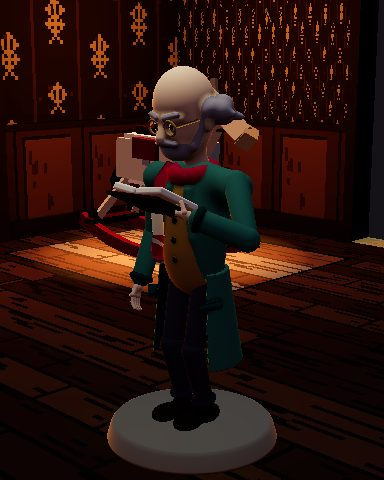
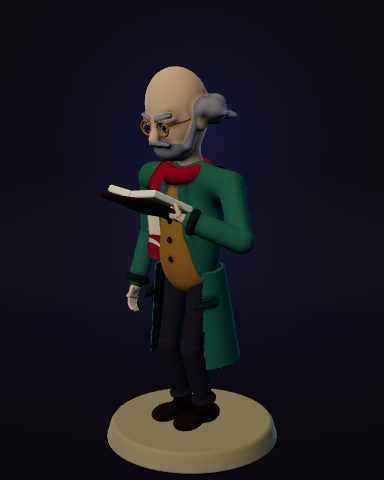
art(betrayal): setup portraits on a dark studio sweep
The portraits leave the Abandoned Room for the figure viewer: each figure on
its base, on a seamless sweep curving up into a dark backdrop, under a soft
warm key and fill with the cold moon behind lighting the backdrop round the
figure and rimming its edges. The viewer gains the portrait light and a
portrait camera that frames every figure at the same scale, from the same
12-degree tilt and distance the bench shot used.

diff --git a/src/projects/betrayal/art/figure-viewer.ts b/src/projects/betrayal/art/figure-viewer.ts
@@ -40,6 +40,8 @@ export interface ViewerFigure {
   id: string;
   name: string;
   kind: "explorer" | "pawn" | "monster";
+  /** The character it shows as a seat shows them, or null for a figure that is no character's. */
+  character: string | null;
   build: (stunned: boolean) => ExplorerBuilder;
   /** The seat colour of the ring round its base: the character card's. */
   ring: PaletteKey | null;
@@ -55,15 +57,15 @@ function viewerFigures(): ViewerFigure[] {
     const own = hasFigure(character.id) ? BENCH_EXPLORERS.find((figure) => figure.build === build) : undefined;
     const speed = { track: character.tracks.speed, start: character.tracks.speed[character.start.speed] };
     return own
-      ? { id: own.id, name: character.name, kind: "explorer" as const, build: () => build, ring, speed }
-      : { id: character.id, name: `${character.name} (pawn)`, kind: "pawn" as const, build: () => build, ring, speed };
+      ? { id: own.id, name: character.name, kind: "explorer" as const, character: character.id, build: () => build, ring, speed }
+      : { id: character.id, name: `${character.name} (pawn)`, kind: "pawn" as const, character: character.id, build: () => build, ring, speed };
   });
   return [
     ...characters.filter(({ kind }) => kind === "explorer"),
     ...characters.filter(({ kind }) => kind === "pawn"),
-    { id: "pawn", name: "Scale pawn", kind: "pawn", build: () => () => pawn(), ring: null, speed: null },
-    { id: "banshee", name: "The Banshee", kind: "monster", build: (stunned) => (seed, gait) => banshee(seed, gait, { stunned }), ring: null, speed: null },
-    { id: "spider", name: "The Spider", kind: "monster", build: (stunned) => (seed, gait) => spider(seed, gait, { stunned }), ring: null, speed: null },
+    { id: "pawn", name: "Scale pawn", kind: "pawn", character: null, build: () => () => pawn(), ring: null, speed: null },
+    { id: "banshee", name: "The Banshee", kind: "monster", character: null, build: (stunned) => (seed, gait) => banshee(seed, gait, { stunned }), ring: null, speed: null },
+    { id: "spider", name: "The Spider", kind: "monster", character: null, build: (stunned) => (seed, gait) => spider(seed, gait, { stunned }), ring: null, speed: null },
   ];
 }
 
@@ -72,7 +74,7 @@ export const VIEWER_FIGURES: readonly ViewerFigure[] = viewerFigures();
 /** What a line-up does: every explorer in the same state. */
 export const LINE_UP_STATES = ["idle", "walk", "run"] as const satisfies readonly FigureState[];
 
-export const LIGHTS = ["studio", "lamp", "backlit", "moon", "dim"] as const;
+export const LIGHTS = ["studio", "lamp", "backlit", "moon", "dim", "portrait"] as const;
 export type LightPreset = (typeof LIGHTS)[number];
 export const LIGHT_LABELS: Record<LightPreset, string> = {
   studio: "Even studio",
@@ -80,15 +82,17 @@ export const LIGHT_LABELS: Record<LightPreset, string> = {
   backlit: "Back-lit",
   moon: "Moonlight only",
   dim: "Dim room",
+  portrait: "Portrait backdrop",
 };
 
-export const CAMERAS = ["house", "close", "eye", "turntable"] as const;
+export const CAMERAS = ["house", "close", "eye", "turntable", "portrait"] as const;
 export type CameraPreset = (typeof CAMERAS)[number];
 export const CAMERA_LABELS: Record<CameraPreset | "free", string> = {
   house: "House distance",
   close: "Close-up",
   eye: "Eye level",
   turntable: "Turntable",
+  portrait: "Portrait",
   free: "Free",
 };
 
@@ -139,6 +143,8 @@ export interface FigureViewerApi {
   /** The figure built and shown, its textures drawn and its shaders ready. */
   isReady: () => boolean;
   figures: () => string[];
+  /** Every character, with the figure that shows them as a seat does: their own, or the pawn in their card's colour. */
+  characters: () => { character: string; figure: string }[];
   setFigure: (id: string) => void;
   /** Steps to the next (1) or previous (-1) figure. */
   stepFigure: (by: number) => void;
@@ -180,6 +186,9 @@ type Cube = readonly (readonly [PaletteKey, number])[];
 interface LightRig {
   background: PaletteKey;
   floor: PaletteKey;
+  /** Whether the figure stands on a photographer's sweep, its floor curving up into a backdrop behind it as the
+   *  camera sees it, in place of the plain round floor. */
+  sweep?: true;
   hemisphere: { sky: PaletteKey; ground: PaletteKey; intensity: number };
   key: { colour: PaletteKey; intensity: number; from: THREE.Vector3 };
   lamp: { colour: PaletteKey; intensity: number; at: THREE.Vector3 };
@@ -265,10 +274,35 @@ const LIGHT_RIGS: Record<LightPreset, LightRig> = {
     lamp: { colour: "amber", intensity: 2, at: new THREE.Vector3(-2.5, 2.2, 1.5) },
     probe: even("moon", 0.3, 0.45, 0.08),
   },
+  // A miniature photographed on a dark backdrop: a soft warm key from the front left, a little warm fill, and the
+  // cold moon behind, lighting the backdrop round the figure and catching its edges as a rim.
+  portrait: {
+    background: "void",
+    floor: "ash",
+    sweep: true,
+    hemisphere: { sky: "moon", ground: "void", intensity: 0.6 },
+    key: { colour: "boneLight", intensity: 1.4, from: new THREE.Vector3(0.8, 3, 4) },
+    lamp: { colour: "moon", intensity: 4, at: new THREE.Vector3(-1.3, 1, -1.3) },
+    probe: [
+      ["boneDark", 0.45],
+      ["moonLight", 1],
+      ["boneLight", 0.6],
+      ["void", 0.1],
+      ["boneDark", 0.45],
+      ["moonLight", 1],
+    ],
+  },
 };
 
 /** How far round the plain floor reaches, in metres. */
 const FLOOR_RADIUS = 4;
+/** The sweep, in metres: how wide, how far its floor reaches in front of the figure and behind it to the foot of
+ *  the backdrop, the radius of the curve between them, and how tall the backdrop stands. */
+const SWEEP = { width: 8, front: 3, back: 2.5, bend: 0.8, height: 4 };
+const SWEEP_STEPS = 12;
+/** The portrait camera: the height it aims at and how far round that its frame reaches, the same for every
+ *  figure so their heights stay true, and how far it looks down. */
+const PORTRAIT = { aim: 0.85, reach: 0.76, pitch: THREE.MathUtils.degToRad(12) };
 /** The camera's tilts for each preset that frames the figure close, and how fast the turntable turns, radians a second. */
 const CLOSE_PITCH = THREE.MathUtils.degToRad(18);
 /** Where a figure's eyes are, as a share of its height. */
@@ -281,6 +315,26 @@ const CLOSE_REACH = 0.62;
 /** Pad sticks: the share of the view's distance panned, and the radians turned, per second at full tilt. */
 const PAD_PAN = 0.9;
 const PAD_TURN = 2;
+
+/** The sweep's surface, facing +z (the camera, once turned to face it) and up: its floor from the front edge back,
+ *  round the curve and up the backdrop, as one seamless sheet. */
+function sweepGeometry(): THREE.BufferGeometry {
+  const { width, front, back, bend, height } = SWEEP;
+  const foot = -back + bend;
+  const profile = [new THREE.Vector2(front, 0), new THREE.Vector2(foot, 0)];
+  for (let step = 1; step <= SWEEP_STEPS; step++) {
+    const angle = (step / SWEEP_STEPS) * (Math.PI / 2);
+    profile.push(new THREE.Vector2(foot - Math.sin(angle) * bend, bend - Math.cos(angle) * bend));
+  }
+  profile.push(new THREE.Vector2(-back, height));
+  const positions = profile.flatMap(({ x: z, y }) => [-width / 2, y, z, width / 2, y, z]);
+  const index = profile.slice(1).flatMap((_, i) => [2 * i, 2 * i + 1, 2 * i + 2, 2 * i + 1, 2 * i + 3, 2 * i + 2]);
+  const geometry = new THREE.BufferGeometry();
+  geometry.setAttribute("position", new THREE.Float32BufferAttribute(positions, 3));
+  geometry.setIndex(index);
+  geometry.computeVertexNormals();
+  return geometry;
+}
 
 /** The address's settings, read as the viewer opens; anything it doesn't know throws, so a typo never passes for a choice. */
 function fromAddress(search: string) {
@@ -403,6 +457,7 @@ export function createFigureViewer(search: string) {
     frameCount: () => frames,
     isReady: () => ready,
     figures: () => VIEWER_FIGURES.map(({ id }) => id),
+    characters: () => VIEWER_FIGURES.flatMap(({ id, character }) => (character === null ? [] : [{ character, figure: id }])),
     setFigure: (id) => {
       figureById(id);
       update({ figure: id, lineUp: false, burst: null, ...statsFor(false, id) });
@@ -561,7 +616,9 @@ export function createFigureViewer(search: string) {
     const floorMaterial = new THREE.MeshLambertMaterial();
     const floor = new THREE.Mesh(new THREE.CircleGeometry(FLOOR_RADIUS, 64).rotateX(-Math.PI / 2), floorMaterial);
     floor.position.y = -0.002;
-    const stage = group(hemisphere, key, key.target, lamp, floor);
+    const sweep = new THREE.Mesh(sweepGeometry(), floorMaterial);
+    sweep.position.y = -0.002;
+    const stage = group(hemisphere, key, key.target, lamp, floor, sweep);
     scene.add(stage);
     const background = new THREE.Color();
     scene.background = background;
@@ -571,6 +628,8 @@ export function createFigureViewer(search: string) {
       const rig = LIGHT_RIGS[snapshot.light];
       background.set(paletteHex(rig.background));
       floorMaterial.color.set(paletteHex(rig.floor));
+      floor.visible = rig.sweep === undefined;
+      sweep.visible = !floor.visible;
       hemisphere.color.set(paletteHex(rig.hemisphere.sky));
       hemisphere.groundColor.set(paletteHex(rig.hemisphere.ground));
       hemisphere.intensity = rig.hemisphere.intensity;
@@ -661,6 +720,10 @@ export function createFigureViewer(search: string) {
         aim.set(0, 0, 0);
         pitch = DEFAULT_PITCH;
         distance = cameraDistance(1, camera.aspect);
+      } else if (preset === "portrait") {
+        aim.y = PORTRAIT.aim;
+        pitch = PORTRAIT.pitch;
+        distance = PORTRAIT.reach / Math.sin(Math.min(vertical, horizontal) / 2);
       } else {
         aim.x += subject.figure ? 0 : subject.centre.x;
         aim.z += subject.figure ? 0 : subject.centre.z;
@@ -671,6 +734,9 @@ export function createFigureViewer(search: string) {
       distance /= nearer;
       toward.set(Math.sin(azimuth) * Math.cos(pitch), Math.sin(pitch), Math.cos(azimuth) * Math.cos(pitch));
       camera.position.copy(aim).addScaledVector(toward, distance);
+      // The backdrop stands behind the figure, wherever the camera has turned to.
+      sweep.position.set(aim.x, sweep.position.y, aim.z);
+      sweep.rotation.y = azimuth;
       controls.target.copy(aim);
       camera.lookAt(aim);
       camera.near = Math.max(0.02, distance / 100);

diff --git a/src/projects/betrayal/art/explorers/index.ts b/src/projects/betrayal/art/explorers/index.ts
@@ -70,6 +70,6 @@ export const BENCH_EXPLORERS: readonly BenchExplorer[] = [
   { id: "crowd-7", name: "Six explorers and the Banshee", build: TABLE[0], crowd: [...TABLE.slice(1), (seed, gait) => banshee(seed, gait)] },
   { id: "crowd-spider", name: "The Spider on the prime place, three explorers after it", build: (seed, gait) => spider(seed, gait), crowd: TABLE.slice(0, 3) },
   { id: "monster-line-up", name: "Every figure, monsters and explorers, with the pawn", build: (seed) => monsterLineUp(seed) },
-  // Every character as a seat shows them, `seated:<character id>`: their figure, or the pawn in their card's colour. Setup's portraits are shot from these.
+  // Every character as a seat shows them, `seated:<character id>`: their figure, or the pawn in their card's colour.
   ...CHARACTERS.map((character) => ({ id: `seated:${character.id}`, name: `${character.name}, as seated`, build: figureFor(character.id, CARD_PALETTE[character.card]) })),
 ];
